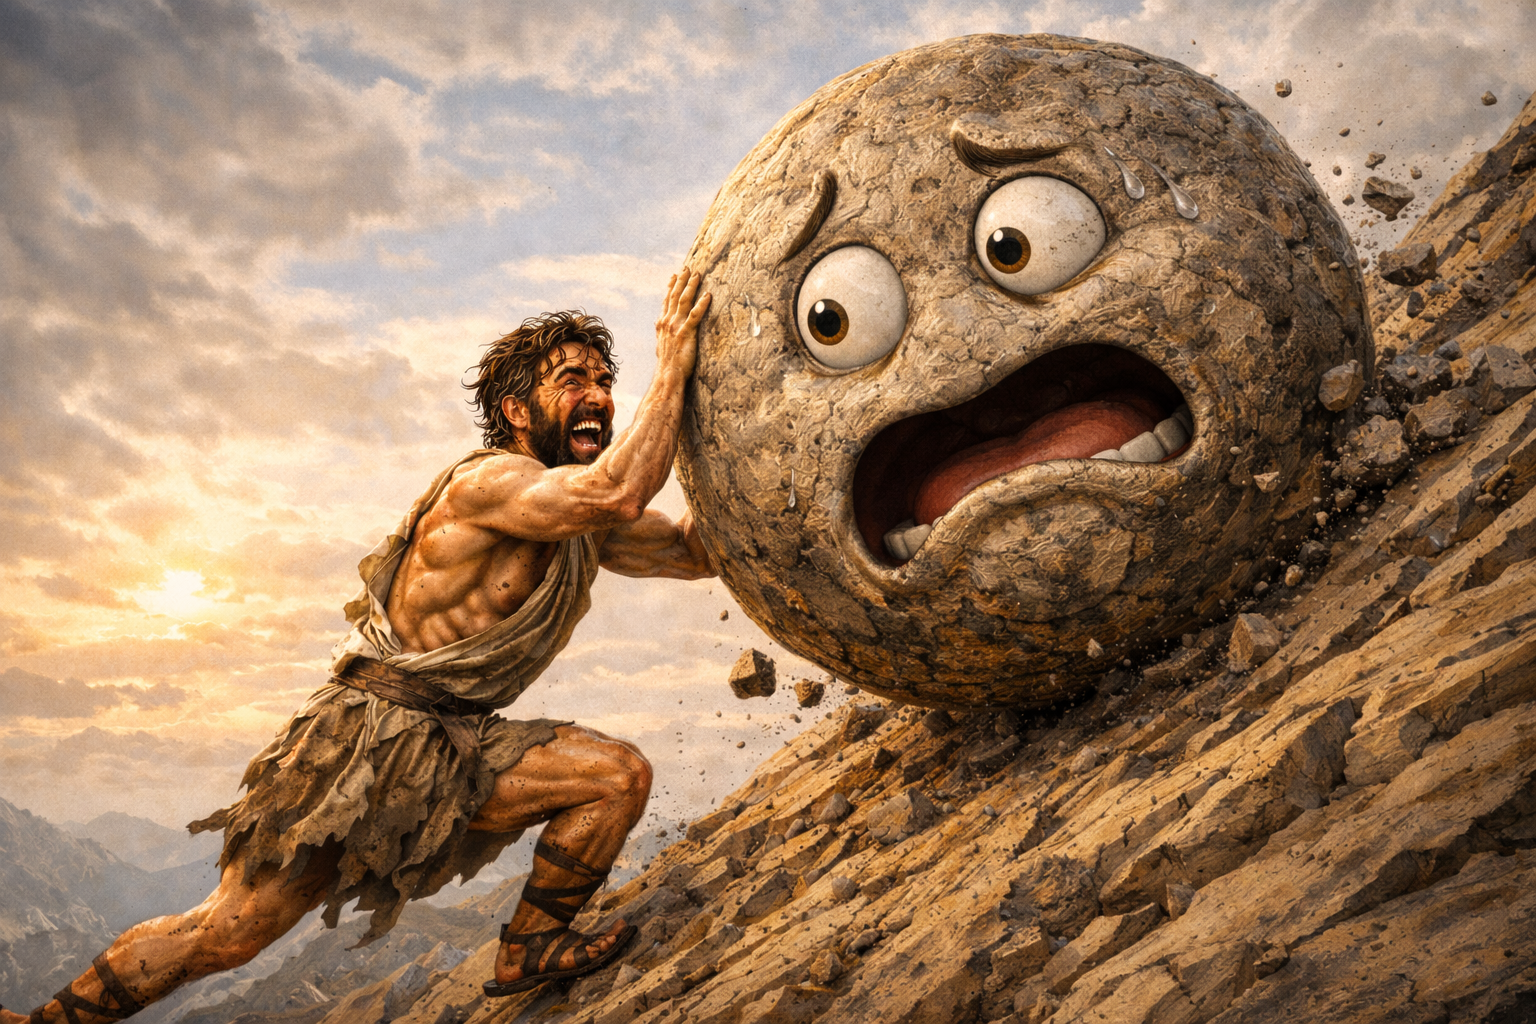
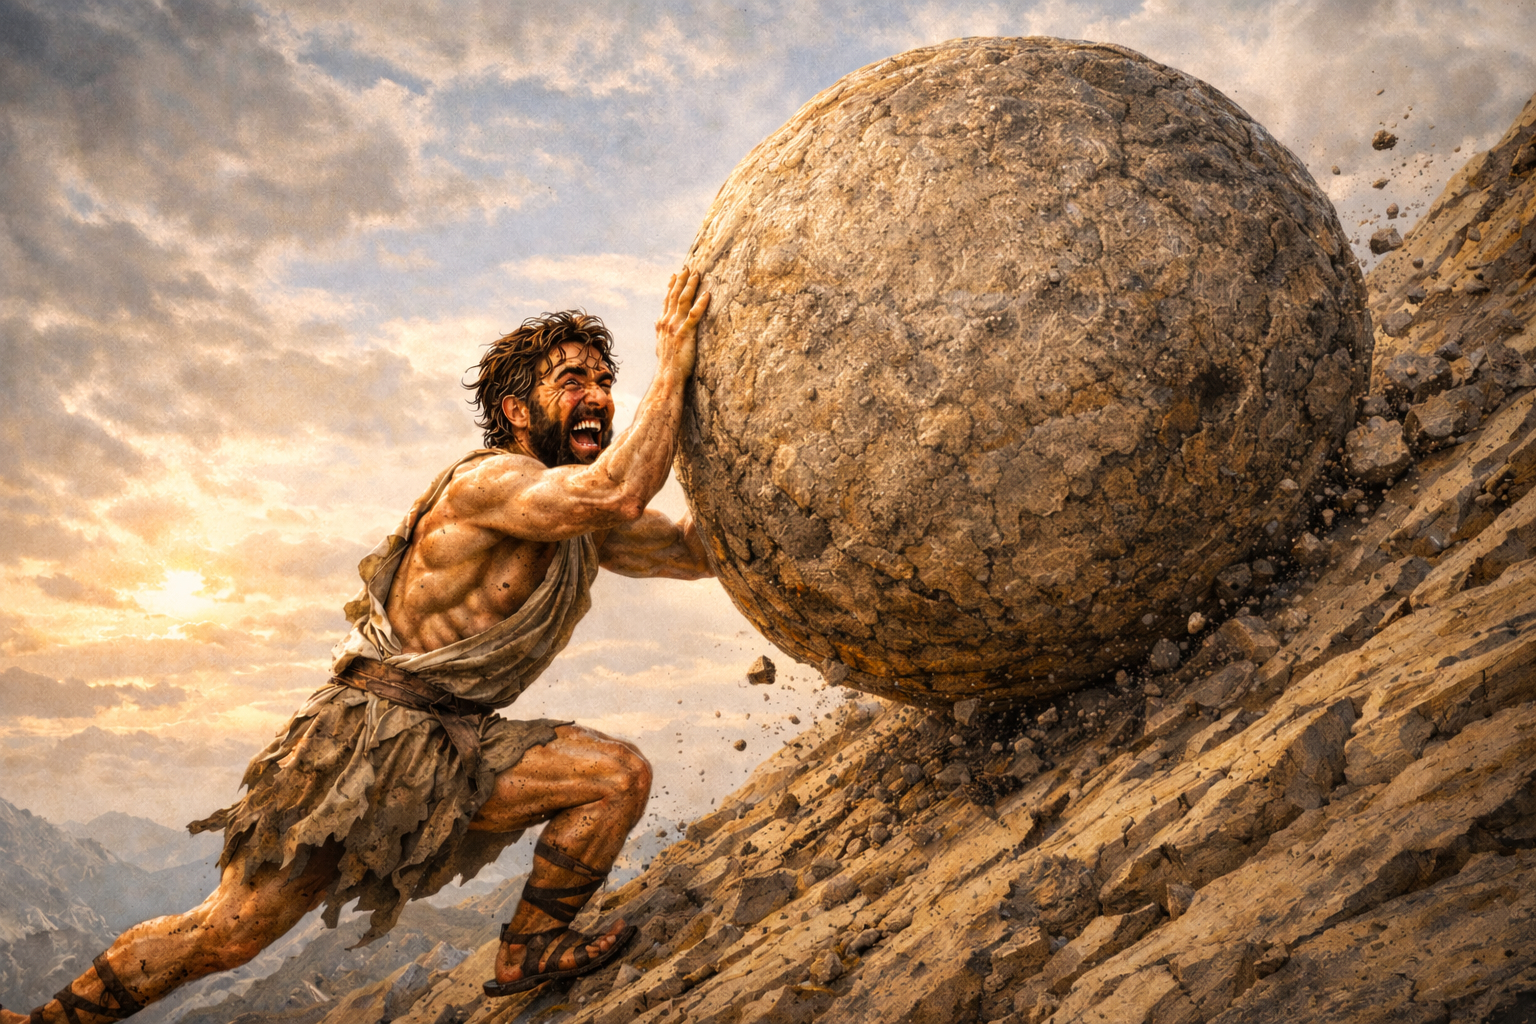
1. 변경된 요소: src/components/PostCard.astro 내 썸네일 및 텍스트 레이아웃      구체적인 수치: 썸네일 1:1 비율, 우측 패딩 230px, 제목 페이드 시작 80%      중요한 변화 결과: 태블릿 환경의 썸네일 잘림 현상을 해결하고 카드 디자인의 예술적   완성도를 높임
2. 변경된 요소: src/layouts/MainGridLayout.astro 내 플로팅 TOC 구조
     구체적인 수치: mask-image 제거, 고정 높이 및 overflow-y-scroll 삭제
     중요한 변화 결과: TOC가 내용에 따라 자연스럽게 늘어나며 마지막 항목 가려짐 문제를
  근본적으로 해결함

   3. 변경된 요소: src/components/PostMeta.astro 내 상세 페이지 메타 데이터
     구체적인 수치: flex-wrap 구조에서 flex-col 기반 2단 구조로 변경
     중요한 변화 결과: 상세 페이지의 카테고리와 태그 배치를 포스트 카드 디자인과 일치시켜
  통일감을 부여함

   4. 변경된 요소: src/plugins/rehype-midline-ellipsis.mjs 내 생략 부호 변환 로직
     구체적인 수치: ... ->  ⋯ (일반 공백 한 칸 추가)
     중요한 변화 결과: 텍스트와 생략 부호 사이의 여백이 확실히 확보되어 문장의 여운이 더
  깊게 전달됨

   5. 변경된 요소: src/plugins/rehype-stylized-quote.mjs 생성 및 src/styles/main.css 내
      인용구 스타일
     구체적인 수치: 크기 0.8em, 굵기 100, 투명도 0.8, 높이 0.35em
     중요한 변화 결과: 마크다운의 따옴표가 극도로 섬세하고 정갈한 특수 인용부호로 자동
  변환됨

   6. 변경된 요소: src/plugins/rehype-midline-ellipsis.mjs 내 린트 에러 수정
     구체적인 수치: index -> `_index` 매개변수명 변경
     중요한 변화 결과: Biome 린트 에러를 해결하여 빌드 환경의 무결성을 확보함

  지식/정보 요약:
   - 레이아웃 정렬 시 동일한 패딩(230px)을 공유하면 시각적 안정감과 정돈된 리듬감을 얻을
     수 있음.
   - vertical-align과 opacity를 조합하면 폰트 고유의 디자인 한계를 넘어선 정교한
     타이포그래피 구현이 가능함.
   - 마크다운 변환 단계(Rehype)에서 텍스트 노드를 분리하고 인라인 스타일을 활용하는
     방식은 가장 확실한 렌더링을 보장함.
   - 사용하지 않는 매개변수 앞에 _를 붙이는 것은 코드 품질을 유지하기 위한 표준적인
     프로그래밍 관습임.

diff --git a/src/styles/main.css b/src/styles/main.css
@@ -1,3 +1,13 @@
+/* 중간 생략 부호 스타일 */
+.midline-ellipsis {
+    @apply opacity-80;
+}
+
+.midline-ellipsis::before {
+    content: "";
+    @apply inline-block w-[0.4em];
+}
+
 @tailwind components;
 
 @layer components {
@@ -147,6 +157,28 @@
     }
   }
 }
+
+/* 스타일이 적용된 인용구 스타일 */
+.stylized-quote {
+    @apply relative inline mx-0.5;
+    color: inherit;
+    font-style: normal; /* 🚀 기울임 제거 */
+}
+
+.stylized-quote::before,
+.stylized-quote::after {
+    @apply inline-block transition-all;
+    color: inherit;
+    opacity: 0.8;
+    font-size: 0.8em;
+    font-weight: 100;
+}
+
+.quote-double::before { content: '❝'; @apply mr-0.5; vertical-align: 0.35em; }
+.quote-double::after { content: '❞'; @apply ml-0.5; vertical-align: 0.35em; }
+
+.quote-single::before { content: '❛'; @apply mr-0.5; vertical-align: 0.35em; }
+.quote-single::after { content: '❜'; @apply ml-0.5; vertical-align: 0.35em; }
 
 @layer components {
 	.enable-banner.is-home #banner-wrapper {

diff --git a/src/content/posts/insights/inspirations/books/the-myth-of-sisyphus-reflection/index.md b/src/content/posts/insights/inspirations/books/the-myth-of-sisyphus-reflection/index.md
@@ -3,7 +3,7 @@ title: "부조리의 언덕 위에서: 시지프의 돌과 불꽃"
 published: 2025-12-24
 description: "알베르 카뮈의 '시지프 신화'를 통해 바라본 현대인의 실존적 반항과 무의미 속에서 피어나는 진정한 자유에 대한 고찰."
 image: "cover.png"
-tags: [Existentialism, Albert Camus, Philosophy, Literature]
+tags: [Existentialism, Absurdity, Albert Camus, Philosophy, Literature]
 category: insights/inspirations/books
 draft: false
 ---
